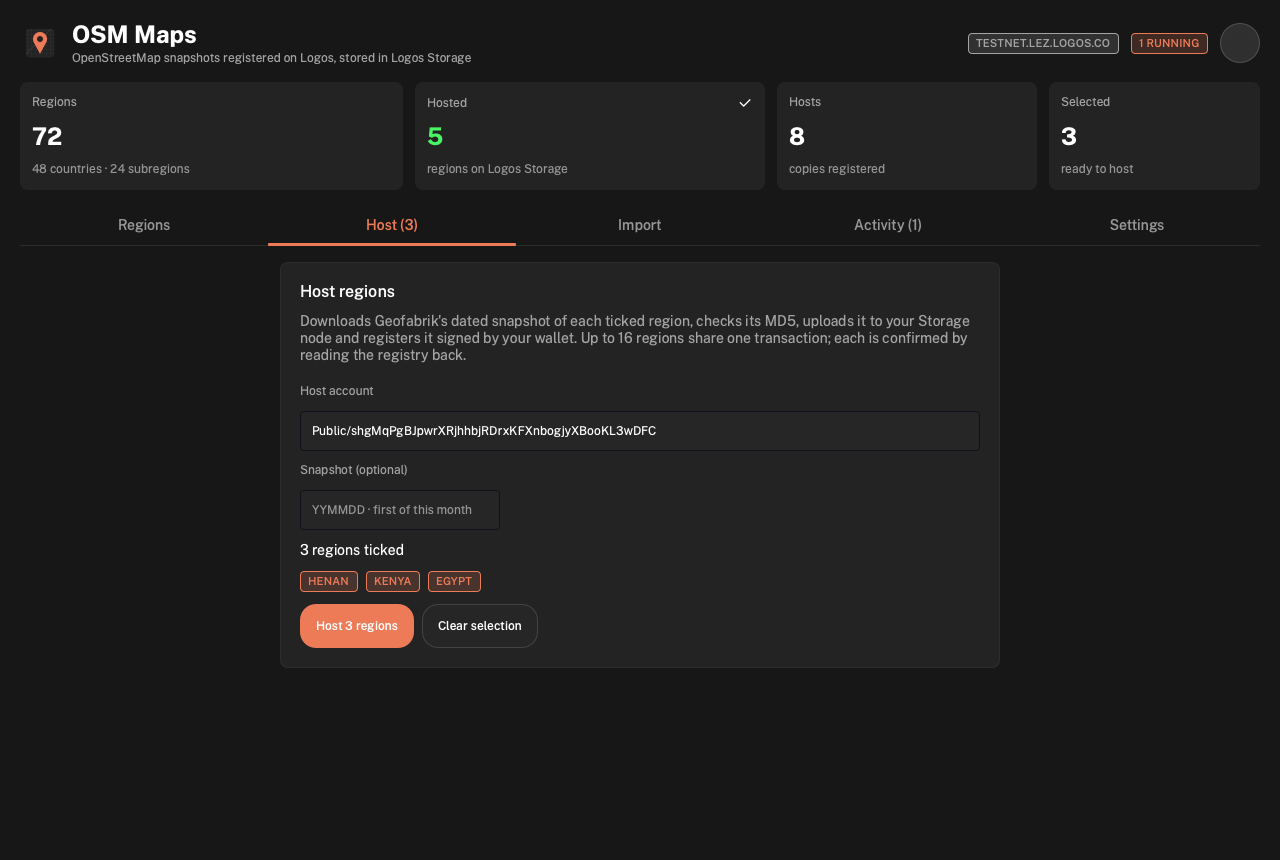
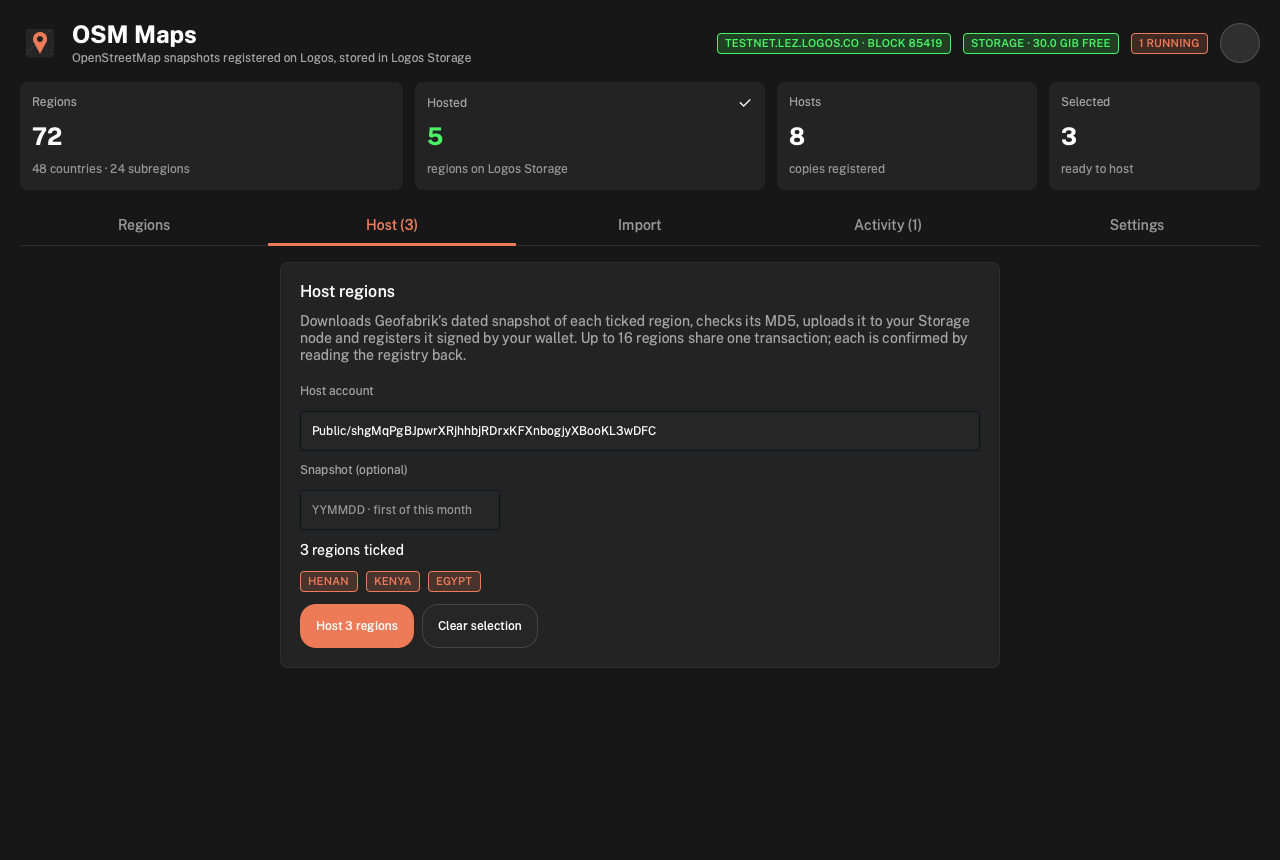
docs(self-review): every Appendix E.1 row (1-55, E56-E87) answered with a verdict and its evidence; claim: no regex in the apps; README: catalog packages are unsigned; app: details say registry data is checked on download; previews refreshed

Changed region(s): [[0.5625, 0.0302, 0.875, 0.0605]]

diff --git a/basecamp/osm-app/src/qml/Main.qml b/basecamp/osm-app/src/qml/Main.qml
@@ -926,6 +926,13 @@ Item {
                                     color: Theme.palette.textSecondary
                                 }
                             }
+                            LogosText {
+                                Layout.fillWidth: true
+                                text: "As registered on-chain. Download checks the file against this MD5 before keeping it."
+                                color: Theme.palette.textSecondary
+                                font.pixelSize: Theme.typography.secondaryText
+                                wrapMode: Text.WordWrap
+                            }
                             Field { label: "CID (Logos Storage)"; value: root.openEntry ? root.openEntry.cid : ""; copy: true }
                             Field { label: "MD5 (from Geofabrik)"; value: root.openEntry ? root.openEntry.checksum : ""; copy: true }
                             Field { label: "Registered"; value: root.openEntry ? root.formatTime(root.openEntry.timestamp_ms) : "" }

diff --git a/docs/self-review.md b/docs/self-review.md
@@ -1,91 +1,148 @@
 # Self-review (evaluator method on our own repo)
 
-Pinned commit: `b9053ae0a2d5b20aaf362bd5888f72e2a40daf33` (https://github.com/pramadanif/logos-osm-distribution, `main`).
-Date: 2026-11-12. Reviewer: the build agent, following plan Appendix E and docs/status/e1-extra.md.
-Previous review: 2026-11-09 at `9bee462`.
+Reviewed commit: `d868dca` (https://github.com/pramadanif/logos-osm-distribution, `main`) and the
+documentation commit that adds this file. Date: 2026-11-23. Reviewer: the build agent, following
+plan Appendix E, every row of Appendix E.1 (1–55) and docs/status/e1-extra.md (E56–E87).
+Previous reviews: 2026-11-12 at `b9053ae`, 2026-11-09 at `9bee462`.
 
 ## Verdict
 
-A working alpha on LEZ v0.3 and a proven step on LEZ 0.4-rc, not yet a submission. The SPEL
-registry, SDK, C ABI and CLI run end to end on a local v0.3.1 sequencer with real Storage nodes,
-in CI on every push. The program is deployed on the public v0.3 testnet but registers nothing
-there yet (no public Storage node). The 0.4 actor registry passes 15 of 15 non-batch negative and
-repeat-signer probes on a local v0.4.0-rc1 sequencer. All five Basecamp modules compile and
-package on Linux and macOS, but none has been opened in Basecamp. Coverage (25 regions / 15
-countries), the 0.4 testnet, adoption and the video are all open. 0 high findings open; 2 medium
-(M3, M4 below).
+Everything the prize asks that does not need testnet 0.4 or other people is built and shown
+working, most of it in CI on every push: the registry on LEZ v0.3 (public testnet, with
+`china/henan` registered and its file on our public Storage node) and on a local 0.4-rc
+sequencer; SDK, C ABI and CLI; the Basecamp app, the SDK module and two templates, built with
+logos-module-builder for Linux, macOS (and, from this commit, Windows and Linux arm64 in CI),
+loaded in the Basecamp desktop app and in logosctl, and released through our catalog. Still open
+and outside code: testnet 0.4 (not launched), its 25-region coverage, a SPEL IDL for 0.4 (SPEL has
+no 0.4 support), five independent modules, the video.
 
 ## How I reviewed
 
-Cloned the repository into a temporary directory at `b9053ae`, ran `cargo test --locked`, listed
-tracked files for wallets, keys, passwords and private plan files, read the CI runs through the
-API, and compared README and docs statements with code and evidence files.
+Fresh clone and `cargo test --locked`; tracked files listed for wallets, keys, passwords and
+private plans; CI runs read through the API; README and docs compared with code and evidence;
+the app rendered offscreen with the design system (`tests/ui/preview.sh`) and loaded in Basecamp
+(docs/status/phase-D.md); every E.1 row answered below with PASS, PARTIAL, FAIL, UNVERIFIABLE or
+N/A and its evidence.
 
-## README says / Observed
+## Findings still open
 
-| Statement | Observed |
-|-----------|----------|
-| `cargo test --locked` builds and tests | 76 passed, 0 failed (fresh clone, macOS arm64) |
-| e2e on a real sequencer in CI | first green run 42755836260 at `0f9a9f2` |
-| Basecamp modules built with logos-module-builder | modules run 42757080576 at `05b1389`: 5 `.lgx` on Linux amd64 and macOS |
-| program on the public v0.3 testnet | `networks.json` id and ImageID match README (doc-truth job) |
-| 0.4 actor registry | 15/15 non-batch probes, probes/results-v04.txt; CI job `e2e-v04` not green yet |
-| cycle counts | v0.3 table and 0.4 table equal the raw JSON in probes/data (doc-truth job) |
+**M3 → PARTIAL. The new app screens are rendered offscreen, not yet seen in Basecamp.** The app
+loaded in Basecamp at v0.1.0 (old screens). The design-system screens are verified by offscreen
+renders and the headless load test; a look in Basecamp at 0.1.3 is pending (needs a desktop).
 
-Tracked files: no wallet, key, password or evaluator corpus; `docs/plan/` holds only the public
-prize text (`prize-LP-0018.md`); the private plan and prompt files are gitignored.
+**M4 (open). Coverage is only on the v0.3 rehearsal network.** One region (`china/henan`) is
+registered on the public v0.3 testnet; the 15/25 coverage must be on testnet 0.4.
 
-## Findings
+**L3 (open). No SPEL IDL for 0.4.** Needs SPEL support for LEZ 0.4.
 
-**M1, M2, L1 (fixed in the previous review).** Empty README, CI never run, synthetic test CID.
-
-**M3 (open). Basecamp modules never loaded in Basecamp.** They compile and package, and the
-manifests are tested, but no screen of the app or the templates has been seen running. Until then
-H20 (every feature in the UI), D.6 (states, two profiles, Qt number formatting) and W5 are unproven.
-Needs a desktop Basecamp session.
-
-**M4 (open). No public data.** Nothing is registered on any public network, so P-F8 and the
-coverage criteria (F.3–F.5) are unproven. Needs the public Storage node (VPS) and testnet 0.4.
-
-**L2 (fixed after this review's pin).** CI `e2e-v04` run 43227068962 at `5cfda57` built the current
-guest and passed all 18 cases on a 0.4-rc sequencer, including `RegisterBatch`.
-
-**L3 (open). No SPEL IDL for 0.4.** SPEL generates plan/apply code for v0.3 only. The 0.4 program
-is a plain actor program; no 0.4 IDL is claimed (H1 partly open).
-
-**L4 (fixed after this review's pin, `fa7e67e`).** The module's `host_batch` registers up to 16
-regions in one `register_batch`; the app's bulk host uses it. Compiled in CI; not run in Basecamp.
-
-## What works (with evidence)
-
-- Registry on v0.3: deploy, register, batch of 16, unhost, append-only history with hosts; 18/18
-  negative and repeat-signer probes on a real sequencer (probes/results.txt).
-- Registry on 0.4-rc: signer as host actor, clock-checked timestamp, region actor via PDA seed,
-  same account layout read by the same SDK; 15/15 probes incl. a direct message to a region actor
-  refused (probes/results-v04.txt).
-- Storage: upload with retries, download by CID and MD5 check against two real nodes and in CI by
-  an independent node; 2 GiB streamed at 2.7 MB peak memory.
-- Downloads without Geofabrik (CI blocks it); dated first-of-month snapshots with MD5 from
-  Geofabrik.
-- C ABI under ASan/UBSan; decoder fuzzed; atomic local writes survive `kill -9`.
-- Cycle counts: v0.3 register 49,970 and 0.4 Register 51,386 user cycles on the CI-built guest `13bda53e` (docs/cycles.md).
-
-## Not tested
-
-Basecamp at runtime (M3), any public registration (M4), the 0.4 batch on a sequencer (L2),
-testnet 0.4, Android, proving time.
+**L5 (open). No progress for long operations in the app.** Host and download show a spinner and a
+running count, not bytes; the module answers once per call (E67).
 
 ## E.1 rows
 
-Row-by-row status is in docs/criteria-checklist.md and the gate list in
-docs/status/gap-audit.md (refreshed 2026-11-10); this review changes no row's status beyond them.
+| # | Row (short) | Verdict | Evidence |
+|---|-------------|---------|----------|
+| 1 | Numbers and absolute claims true | PASS | `tests/doc_truth.sh` in CI: every `proof:` in docs/claims.md, cycle tables vs raw JSON, test counts |
+| 2 | Catalog package = source | PASS | preflight 16: index sha256 = downloaded .lgx, manifest version = source, catalog submodule = pin; re-release at the final pin |
+| 3 | Default branch = pin | PASS | preflight 24 |
+| 4 | Module id collision, shared data | PASS | `tests/module_manifests.py` (prefix, rival names), preflight 17; per-module data folder |
+| 5 | Every feature in the UI | PASS | app: discover, details, download, update check (one or all), host, bulk host, import, query by parent and CID, settings, status |
+| 6 | Storage endpoint and RPC settable | PASS | Settings tab; `configure` |
+| 7 | CI green at the pin | PASS | ci, e2e (v0.3 + 0.4-rc), modules, public-node, daily |
+| 8 | Remote strings as rich text | PASS | LogosText/LogosCopyButton default to PlainText; no StyledText in our QML |
+| 9 | Markdown/link spoofing | N/A | no Markdown rendered, no links opened by the app |
+| 10 | Alias spoofing | PASS | accounts shown as full ids, compared by id |
+| 11 | Permissionless input costs work | PASS | bounded decoder (fuzzed), closed region set, 8-entry ring, 16 hosts |
+| 12 | Sender timestamps bypass limits | PASS | ±10 min window bound to block time (v0.3 validity window, 0.4 clock check); probes p06a/b |
+| 13 | Flood fills storage | PASS | closed set of 72 accounts, ring of 8 entries (ADR 0001/0002) |
+| 14 | Forged entry hides a good one | PASS | append-only; `fetch` skips entries whose bytes do not hash to the MD5 |
+| 15 | Unbounded indices, overflow | PASS | size, timestamp, history bounds with edge tests (`osm_core/tests/entry.rs`) |
+| 16 | Unbounded log or table | PASS | cache cap 20 GiB, 200 finished jobs kept (`job_table.h`, tested), 72-row list |
+| 17 | File modes, fsync | PASS | 0700/0600 + fsync + folder fsync (`osm_sdk/src/datadir.rs`, test `datadir.rs`) |
+| 18 | Second account sees first's data | PASS | two Basecamp profiles at once keep separate data (phase-D.md) |
+| 19 | Key reuse on restore | N/A | no keys of our own; signing is the LEZ wallet's |
+| 20 | Heavy work on the UI thread | PASS | every app call is async through the backend; MD5 and transfers run in the module |
+| 21 | In-app install fails | UNVERIFIABLE | catalog installs through `lgpd`/package manager not exercised by us; .lgx verified by preflight 16 |
+| 22 | Debug screens shipped | PASS | no debug screen or developer output in the package |
+| 23 | "Synced" without a peer; clipped at 900 px | PARTIAL | status badges come from real probes (E77); rendered at 1280 px only |
+| 24 | Front-running register | PASS | a copy adds the copier as a host only (probe p01, v0.3 and 0.4) |
+| 25 | First caller configures deploy | PASS | no init instruction (ADR 0003) |
+| 26 | Global salt | N/A | no hashing of secrets |
+| 27 | Spec understates a limit | PASS | docs/limitations.md written as found |
+| 28 | QML regex bug | PASS | no regex in QML/C++ (claim 14 in docs/claims.md); arithmetic formatter |
+| 29 | Stale panel after a poll | PASS | panels replace their content on each answer; jobs show their own state |
+| 30 | Signer usable once | PASS | same host registers many times (probes p03a–c) |
+| 31 | SPEL for the target LEZ | PARTIAL | SPEL IDL for v0.3 (CI regenerates and diffs); none for 0.4 |
+| 32 | Fake fixtures | PASS | Geofabrik index and registry accounts captured live (e2e live capture, `fixture_live`) |
+| 33 | Rejected tx shown as success | PASS | every write confirmed by read-back, else S103 "may still land" |
+| 34 | Unsigned calls | PASS | every write signed by the host |
+| 35 | Bootstrap prerequisite | PASS | no init, no prerequisite account |
+| 36 | Docs drift from pins | PASS | readme-coldstart job, VERSIONS.md, daily lez-tags |
+| 37 | Deployment gone after reset | PASS | daily liveness checks the ImageID; redeployed after the layout change |
+| 38 | Empty default config | PASS | defaults point at the v0.3 deployment |
+| 39 | Silent sync failure | PASS | `status` probes shown as badges and in Settings |
+| 40 | Raw units | PASS | sizes as KiB/MiB/GiB, lepta written with separators |
+| 41 | Alarming preview | PASS | confirm dialog only after a selection, with real counts |
+| 42 | No confirmed state, double submit | PASS | Submitting/Confirmed/Failed; host button disabled while a run is going |
+| 43 | Created item invisible | PASS | hosted status reloaded from the chain after each run |
+| 44 | Raw codes, wrong cause | PASS | code plus message (docs/error-codes.md), no duplicated codes |
+| 45 | Unlock without password | PASS | no password stored; 0.4 wallet password only in env |
+| 46 | Several names, unstyled widgets | PASS | "OSM Maps (LP-0018)" everywhere; Logos Design System controls |
+| 47 | Script exits 0 on failure | PASS | `tests/scripts.sh` strictness test |
+| 48 | Unsigned packages | PASS | README says the catalog's packages are unsigned |
+| 49 | Empty board after restart | PASS | LogosStateView Loading while regions load |
+| 50 | Untested list | PASS | "Not tested" below |
+| 51 | Video, subtitles | FAIL | not recorded yet (human) |
+| 52 | Unencrypted keys | PASS | no wallet in the repo; 0.4 wallet encrypted |
+| 53 | Shell with remote strings | PASS | claim 6 (no shell `Command`); argument arrays only |
+| 54 | SQL | N/A | no database |
+| 55 | Decompression bomb | PASS | PBF streamed and hashed, never decompressed |
+| E56 | Bytes vs characters | PASS | region ids ≤ 32 bytes, names bounded in bytes (`MAX_NAME_BYTES`) |
+| E57 | QRegularExpression in Basecamp | PASS | claim 14 |
+| E58 | QML warnings in the Basecamp log | PARTIAL | none from our views at v0.1.0 in Basecamp; offscreen renders of 0.1.3 log none |
+| E59 | ImageID reproducible = deployed | PASS | `verify-onchain.sh` header check (v0.3 public, 0.4-rc in e2e-v04) |
+| E60 | Spec vectors byte for byte | PASS | Geofabrik MD5 files and a real CID in tests |
+| E61 | Unit mismatch | PASS | ms vs s probe (p06b), bytes everywhere |
+| E62 | Timestamp hides staleness | PASS | app shows snapshot date and registration time separately |
+| E63 | Parameter silently ignored | PARTIAL | key flags tested (`--no-geofabrik`, `--json`, `--skip`); not every flag |
+| E64 | Silent input changes | PASS | rejected, never trimmed (claim 11) |
+| E65 | Shown fee ≠ charged | PARTIAL | the dialog states the reserve, not a fee estimate; measured fees in docs/cycles.md |
+| E66 | Confirm hides the cost | PARTIAL | dialog: regions, transactions, fee reserve, cache cap; not the total GB (known only after download) |
+| E67 | No progress | PARTIAL | spinner and running count; no byte progress in the app (CLI prints steps) |
+| E68 | Settings hide the effective value | PARTIAL | effective values shown; their source (default or saved) not shown |
+| E69 | Undeclared runtime dependency | PASS | manifests declare lez_core (optional) and the SDK; Storage is reached over its REST API (ADR 0004) |
+| E70 | Portable library RUNPATH | UNVERIFIABLE | built by logos-module-builder's portable bundler; loads in Basecamp on macOS, not inspected |
+| E71 | Hosting exposes node address | PASS | security.md and limitations.md |
+| E72 | Limits re-checked on read | PASS | SDK decoder re-checks every program bound |
+| E73 | Look-alike short ids | PASS | full ids with copy buttons |
+| E74 | Unbounded local values | PASS | settings keys allow-listed, parsed as JSON; cache bounded |
+| E75 | Replace without validating | PASS | `atomic_write` validates before rename |
+| E76 | Deep link reports false success | N/A | no deep links |
+| E77 | Misleading connection status | PASS | `status` probes (sequencer block id, Storage /space) shown with the error when they fail |
+| E78 | Contrast and light theme | UNVERIFIABLE | only Theme tokens are used, so a light theme recolours the app; not looked at |
+| E79 | Catalog metadata in the installer | PARTIAL | name, description, icon, version set; the installer view not seen |
+| E80 | curl \| sh installers | PASS | pinned versions with sha256 (Storage, rzup via crates.io) |
+| E81 | Debug line in Settings | PASS | none |
+| E82 | No log for key operations | PASS | module logs downloads, uploads, writes and confirmations |
+| E83 | Unmeasured durations | PASS | no duration claims |
+| E84 | PASS/PARTIAL/FAIL rubric | PASS | this table |
+| E85 | Same default identity | N/A | no identity of our own |
+| E86 | Unverified shown as verified | PASS | details say the entry is as registered and that download checks the MD5 |
+| E87 | Decoder fuzzed under sanitizers | PASS | `cargo fuzz` (ASan) on `decode_region`, daily |
+
+## Not tested
+
+The app's 0.1.3 screens inside Basecamp (offscreen renders only); the package-manager install
+flow; a light theme; Windows and Linux arm64 at runtime (built in CI only); Android; testnet 0.4;
+proving time; any host other than ours on a public network.
 
 ## Environment
 
-macOS 26.0.1 arm64, rustc 1.95.0 (workspace), 1.98.1 (0.4 client). LEZ v0.3.1 `1a003bfb`,
-v0.4.0-rc1 `1806e873`; Logos Storage v0.5.3; logos-module-builder `5f74cdb3`.
+macOS 26.0.1 arm64, rustc 1.95.0 (workspace), 1.98.1 (0.4 client), Qt 6.11 (previews). LEZ
+v0.3.1 `1a003bfb`, v0.4.0-rc1 `1806e873`; Logos Storage v0.5.3; logos-module-builder `5f74cdb3`;
+Logos Basecamp pre-release `4cea4bb`.
 
 ## Test traffic
 
-Public v0.3 testnet: one faucet claim and one program deploy of 6 transactions (docs/test-traffic.md). Everything
-else ran on local sequencers and local Storage nodes. Read-only requests to download.geofabrik.de.
+docs/test-traffic.md: one faucet claim, two program deploys and one registration on the public
+v0.3 testnet; our public Storage node; read-only Geofabrik requests.

diff --git a/docs/claims.md b/docs/claims.md
@@ -20,6 +20,7 @@ cannot prove, are marked as policy.
 | 11 | Nothing in a region account is deleted except by ring rotation or a host removing itself | ADR 0002 | the program's only removals are `history.remove(0)` after a push and `hosts.retain` in unhost |
 | 12 | Existing error codes never change meaning | error-codes.md | policy (new codes are appended) |
 | 13 | v0.3 evidence never counts for the prize | limitations.md | policy (plan rule 5) |
+| 14 | No regular expression in the Basecamp apps' QML or C++ (Qt's regex JIT fails in Basecamp's hardened runtime, E57; sizes are formatted with arithmetic) | README, self-review | grep over basecamp/ and examples/ sources |
 
 ## Proof commands
 
@@ -34,3 +35,4 @@ proof: cargo test --locked -q -p osm_core --test entry rejects_bad_checksums_wit
 proof: grep -q "download.geofabrik.de" docs/adr/0006-external-services.md && grep -q "check(9" scripts/preflight_submission.py
 proof: ! grep -E '^(lee|lee_core|nssa|nssa_core|wallet|spel)' osm_sdk/Cargo.toml && ! grep -rnE 'Transaction|send_transaction' osm_sdk/src
 proof: test "$(grep -cE 'history\.remove\(|hosts\.retain\(' programs/osm_registry/methods/guest/src/bin/osm_registry.rs)" = 2
+proof: ! grep -rnE 'QRegularExpression|QRegExp|RegExp\(|\.replace\(/' basecamp/osm-app/src examples/distribution-consumer-app/src examples/consumer-module/src

diff --git a/README.md b/README.md
@@ -123,6 +123,8 @@ SPEL does not support 0.4 yet, so there is no 0.4 IDL (docs/status/lez-04-port.m
 | `pramadani_osm_consumer_module`, `pramadani_osm_consumer_app` | `examples/` | templates |
 
 Build one with `nix build ./basecamp/osm-distribution#lgx-portable`. `module.json` indexes them.
+The catalog's packages are not signed (`signing_mode: none` in the catalog's release workflow), so
+the package manager installs them as unsigned packages; their sha256 is in the catalog index.
 
 ![OSM Maps, Regions tab](docs/images/app-regions.png)
 
